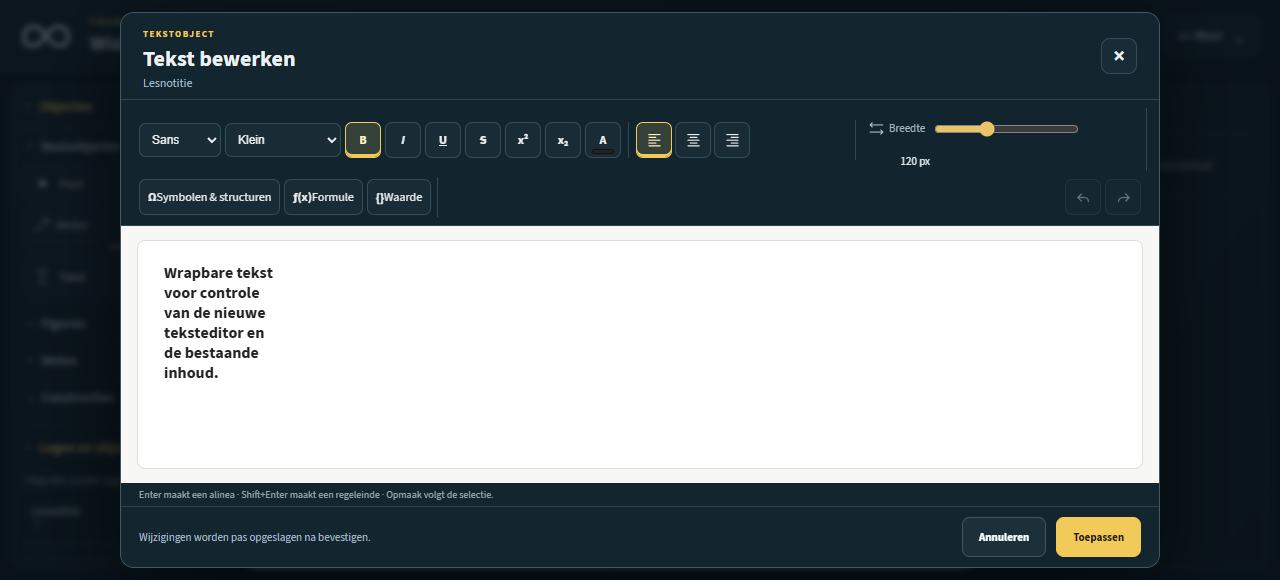
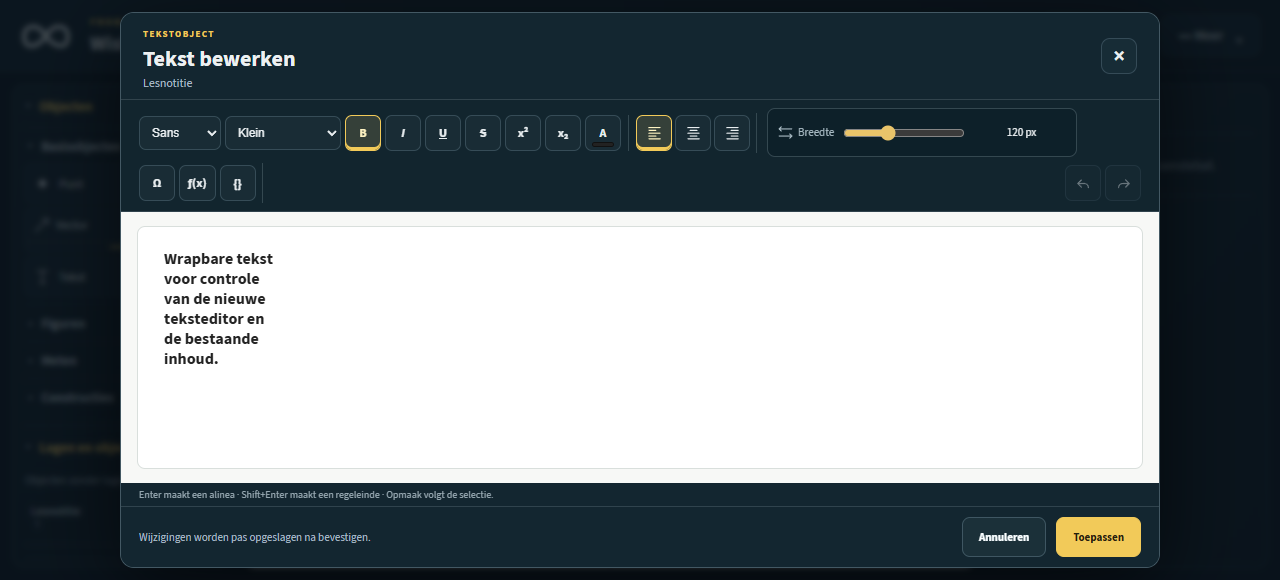
Tighten rich-text toolbar grouping

Changed region(s): [[0.0938, 0.1862, 0.9062, 0.4034], [0.125, 0.4345, 0.2188, 0.6517]]

diff --git a/editor.css b/editor.css
@@ -283,7 +283,7 @@ button.secondary,.tool{background:#1b2933;border-color:var(--border);color:#edf1
 .text-editor-dialog .rich-text-toolbar{gap:6px;padding:8px 12px;align-items:center;overflow:visible}
 .text-editor-dialog .rich-toolbar-group{gap:4px;padding:2px 6px;border-right:1px solid #344850;min-width:0}
 .text-editor-dialog .rich-toolbar-group:last-child{border:0}
-.text-editor-dialog .rich-format-group{flex:1 1 600px}
+.text-editor-dialog .rich-format-group{flex:0 1 auto}
 .text-editor-dialog .rich-text-toolbar select{min-width:78px;max-width:124px}
 .text-editor-dialog #richFontSize{min-width:116px}
 .text-editor-dialog .rich-text-toolbar button{min-width:36px;min-height:36px;padding:5px 8px;display:inline-flex;align-items:center;justify-content:center}
@@ -303,11 +303,12 @@ button.secondary,.tool{background:#1b2933;border-color:var(--border);color:#edf1
 .palette-swatch{display:block;width:17px;height:17px;border-radius:50%;border:1px solid #fff;box-shadow:0 0 0 1px #071018}
 .rich-color-swatch[aria-pressed="true"]{outline:2px solid #f2ca59;outline-offset:2px}
 .rich-color-swatch[aria-pressed="true"] .palette-swatch{box-shadow:0 0 0 2px #f2ca59}
-.text-editor-dialog .rich-width-group{flex:0 1 285px;gap:7px}
+.text-editor-dialog .rich-width-group{flex:0 1 310px;gap:7px;margin-left:4px;padding:5px 9px;border:1px solid #344850;border-radius:8px;background:#0d2029}
 .rich-width-group label{display:flex;align-items:center;gap:4px;color:#a8bac3;font-size:11px;white-space:nowrap}
-.text-editor-dialog .rich-width-group input[type=range]{width:clamp(78px,12vw,145px);min-height:24px;padding:0;accent-color:#e9c46a;cursor:pointer}
+.text-editor-dialog .rich-width-group input[type=range]{width:clamp(78px,10vw,122px);min-height:24px;padding:0;accent-color:#e9c46a;cursor:pointer}
 .rich-width-group output{min-width:62px;color:#e9eef0;font-size:11px;text-align:right;white-space:nowrap}
 .text-editor-dialog .rich-insert-group{flex:0 1 auto}
+.text-editor-dialog .rich-insert-group button span{display:none}
 .text-editor-dialog .rich-history-group{flex:0 0 auto;margin-left:auto;border:0}
 .text-editor-dialog .rich-history-group button{width:36px;padding:6px}
 .text-editor-dialog .rich-history-group button:disabled{opacity:.4;cursor:default;filter:none}

diff --git a/docs/T5-PREP-UX-REFINEMENT-REPORT.md b/docs/T5-PREP-UX-REFINEMENT-REPORT.md
@@ -1,6 +1,6 @@
 # T5-prep — UX-verfijning teksteditor
 
-Versie 1.0.0 — 2026-10-12
+Versie 1.1.0 — 2026-10-12
 
 Repository: `Geert1985/wiskundige-illustratie-editor`
 
@@ -21,6 +21,7 @@ De rich-textwerkbalk is compacter gemaakt en de bediening voor tekstopmaak, bree
 - Vet, cursief, onderstrepen, doorhalen, superscript en subscript spiegelen de cursor-/selectiestatus. Een opmaakkeuze vervangt alleen dezelfde markering en behoudt andere markeringen.
 - Lokale undo/redo is als compacte werkbalkknoppen bereikbaar en wordt uitgeschakeld wanneer de lokale ProseMirror-geschiedenis geen actie toestaat. De buitenste documentgeschiedenis blijft apart.
 - De werkbalk is verdeeld in tekstopmaak en breedte/invoegen/geschiedenis, met responsive regels voor desktop, tablet, telefoon en lage vensters.
+- In de verfijningsronde na visuele beoordeling zijn de zichtbare labels onder Symbolen, Formule en Waarde verwijderd; toegankelijke namen en tooltips blijven. De breedteslider staat nu in een subtiel omkaderde groep direct naast tekstopmaak. De nadruk van de handmatige visuele acceptatie ligt op desktop; mobiel is geen blokkade.
 
 ## Gewijzigde implementatiebestanden
 
@@ -38,13 +39,13 @@ De wijziging in de Node-testbootstrap laadt de nieuwe gedeelde editorservices en
 
 ### Node
 
-`npm test` — **PASS: 457/457**, 0 mislukt, 0 overgeslagen; duur 9,935.029 ms.
+`npm test` — follow-up na de compacte werkbalk: **PASS: 457/457**, 0 mislukt, 0 overgeslagen; duur 10,108.919 ms.
 
 De suite bevat onder meer centrale preset/palet-/slidercontracten, architectuurvolgorde, tekstschema, permissies, legacycompatibiliteit, opslag, undo/redo en document-/geometrische regressies.
 
 ### Edge
 
-`npm run test:edge` — **PASS**, proces eindigde met exitcode 0. De volledige Edge-browserregressiesuite doorliep de bestaande browserregressies en de nieuwe UX-scenario's. Voor de UX-integratie rapporteerde de runner alle 13 checks als `passed` en `pageErrors: []`.
+`npm run test:edge` — **PASS**, proces eindigde met exitcode 0. De volledige Edge-browserregressiesuite doorliep de bestaande browserregressies en de nieuwe UX-scenario's. Voor de UX-integratie rapporteerde de runner alle 15 checks als `passed` en `pageErrors: []`, inclusief `compactInsertionButtons` en `widthControlGroupedWithFormatting`.
 
 De UX-integratiecontrole rapporteerde alle onderstaande checks als geslaagd en `pageErrors: []`: label Symbolen & structuren; presets en behoud van afwijkende waarden; gedeeld palet en behoud van aangepaste kleuren; behoud van overige markeringen; gemengde markeringen en uitlijning; uitlijning over alinea's met undo/redo; breedtepreview en behoud van een aangepaste breedte; één undo-stap per drag; toetsenbordbediening en undo/redo; Escape-annulering; annuleren van de volledige tekstdraft en documentcompatibiliteit; responsive bediening.
 

diff --git a/docs/TEXT-EDITOR-ARCHITECTURE.md b/docs/TEXT-EDITOR-ARCHITECTURE.md
@@ -1,6 +1,6 @@
 # Geavanceerde teksteditor — architectuur T1–T5
 
-Versie 1.9.0 - 2026-10-12 - T1-T4 geïmplementeerd; T5-prep I1-I4 en UX-verfijning technisch geïntegreerd; handmatige acceptatie staat open.
+Versie 1.9.1 - 2026-10-12 - T1-T4 geïmplementeerd; T5-prep I1-I4 en UX-verfijning technisch geïntegreerd; handmatige acceptatie staat open.
 
 Repository: Geert1985/wiskundige-illustratie-editor. Branch: `chatgpt/editor-development`. Onderzochte baseline: `64ba1a29213a448df75e579fc9fb414667a31bee`.
 
@@ -597,6 +597,6 @@ Tekstbreedte blijft `null` of een positieve breedte van 1–1.000.000 SVG-pixels
 
 Uitlijning blijft op het bestaande ProseMirror-paragraafattribuut `align`; de drie iconen passen de betrokken paragrafen in één lokale geschiedenisactie aan. De toolbar publiceert actieve/mixed status op basis van de ProseMirror-selectie, inclusief formule- en dynamische waarde-atomen, en leest undo/redo diepte uit dezelfde ProseMirror-history. Expliciete kleur-/lettergrootte-/lettertypekeuzes vervangen alleen de betreffende mark, zodat andere marks behouden blijven. Undo/redo blijft gescheiden van de documentgeschiedenis.
 
-De werkbalk schaalt in zones voor opmaak, breedte, invoegen en lokale geschiedenis; op smallere schermen lopen zones om en worden invoeglabels compacter. De bestaande contextpanelen blijven overlays die de dialooghoogte niet veranderen. De symboolinvoeging heet overal “Symbolen & structuren” en blijft dezelfde `TextSymbolCatalog`, `TextMathInput`, `TextFormulaEditor` en bestaande formule-atomroute gebruiken.
+De desktopwerkbalk groepeert de breedteslider in een omkaderde bediening direct naast de tekstopmaak, zodat breedte niet als losstaand control oogt. Symbolen, formules en dynamische waarden zijn compacte icoonknoppen zonder zichtbare tekst; toegankelijke namen en tooltips blijven beschikbaar. Op smallere schermen mogen groepen omvallen of scrollen; desktop is het primaire verfijningsdoel en mobiele presentatie is geen acceptatieblokkade. De bestaande contextpanelen blijven overlays die de dialooghoogte niet veranderen. De symboolinvoeging heet overal “Symbolen & structuren” en blijft dezelfde `TextSymbolCatalog`, `TextMathInput`, `TextFormulaEditor` en bestaande formule-atomroute gebruiken.
 
 Normatief testrapport en afbeeldingen: [T5-PREP-UX-REFINEMENT-REPORT.md](T5-PREP-UX-REFINEMENT-REPORT.md). Handmatige IME-/schermlezercontrole is niet uitgevoerd en blijft open; automatische browserresultaten gelden niet als gebruikersacceptatie. Deze UX-verfijning geeft geen toestemming om T5a te starten.

diff --git a/docs/TEXT-EDITOR-IMPLEMENTATION-PLAN.md b/docs/TEXT-EDITOR-IMPLEMENTATION-PLAN.md
@@ -1,6 +1,6 @@
 # Teksteditor — uitvoeringsplan
 
-Versie 1.9.0 - 2026-10-12. Status: T4 regressiecontrole uitgevoerd maar handmatige acceptatie open; T5-prep I1-I4 plus UX-verfijning technisch geleverd en wacht op gebruikersacceptatie; T5a–T5d niet gestart.
+Versie 1.9.1 - 2026-10-12. Status: T4 regressiecontrole uitgevoerd maar handmatige acceptatie open; T5-prep I1-I4 plus UX-verfijning technisch geleverd en wacht op gebruikersacceptatie; T5a–T5d niet gestart.
 
 Normatief ontwerp: [TEXT-EDITOR-ARCHITECTURE.md](TEXT-EDITOR-ARCHITECTURE.md). Alle werkzaamheden uitsluitend op `chatgpt/editor-development`; geen merge naar main. Bestaande wijzigingen buiten scope blijven onaangeroerd.
 
